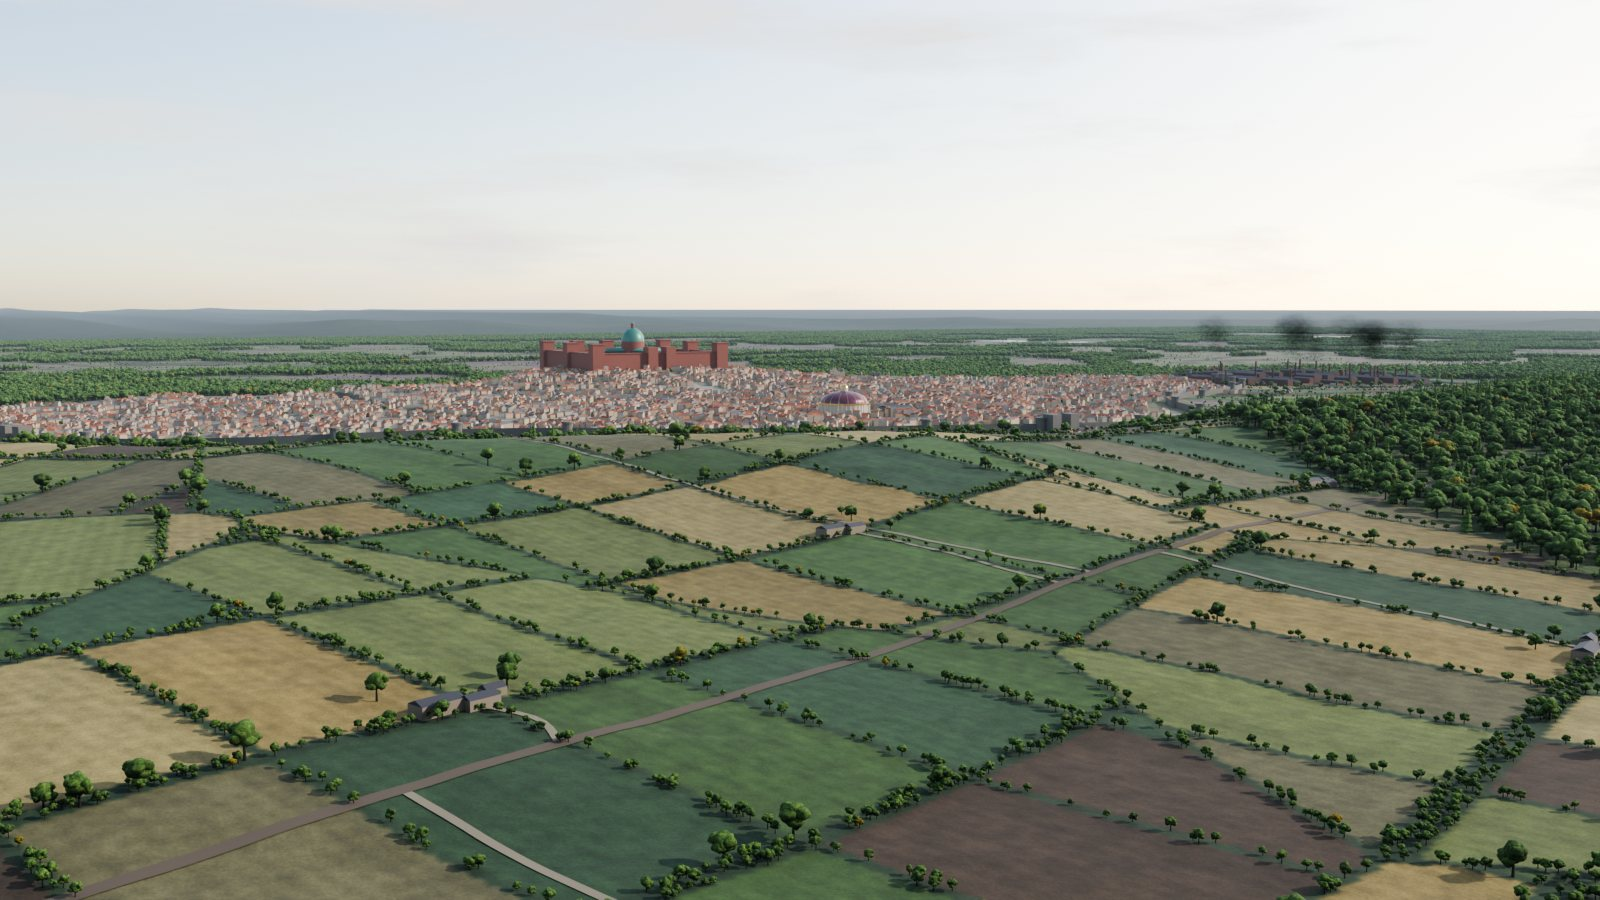
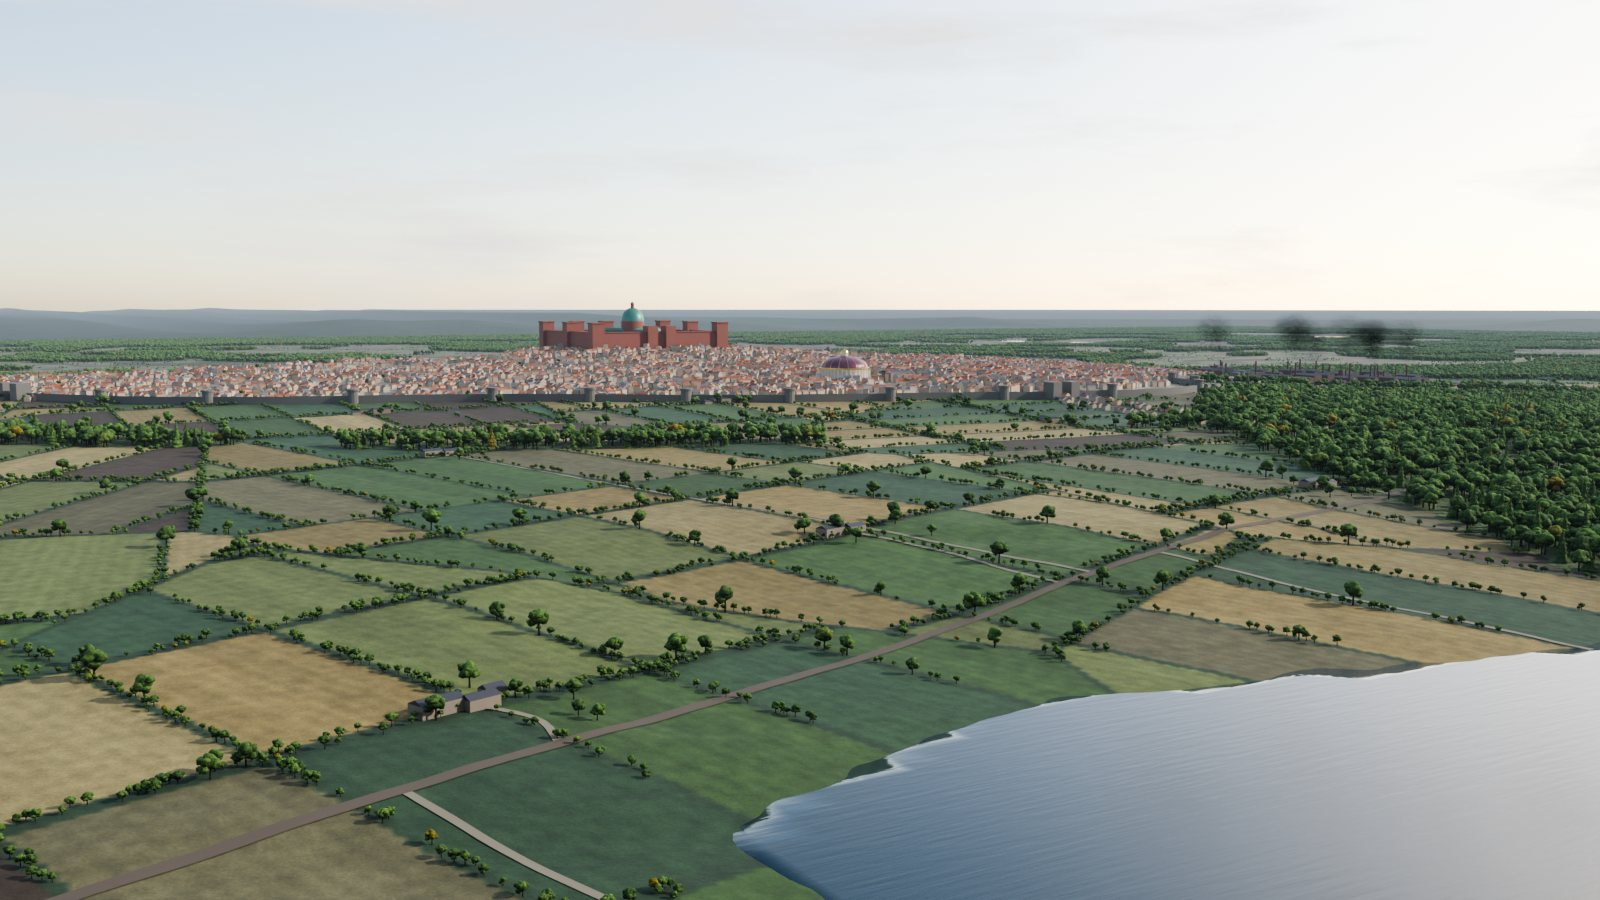
New Daggerford stands on its hill
The city sat in a bowl levelled into the hilltop, with the hill's flanks left
standing round the walls. Now the streets climb to the Keep on its prow and the
land falls away outside the walls. The two boat cuts went with the bowl; the
millrace stays. Under the Keep the north rim stands about four hundred feet over
the south. The city's pictures, the banner and both maps are redrawn, and
Kossenberg and the grove show the new lakes.

Claude-Session: https://claude.ai/code/session_01CacC3kcDPTqHS8f3YVmo4r

diff --git a/src/content/wiki/thunder-bluff.md b/src/content/wiki/thunder-bluff.md
@@ -91,7 +91,7 @@ South of the lake lies the Thunder Bluff shelf — a broad bench of ancient, har
 
 The Trade Way comes up the north bank of the Rauvin from the south-east, keeping to the river until the shelf opens out, and crosses it to the north-west. It is the shelf's one great road: broad and well metalled, with worn shoulders and old trees along it outside the walls, hamlets at its halts, and New Daggerford as its main street.
 
-The lake's river leaves by its old course and runs down the west side of the city, held to its line by stone banks and low weirs. The land to the west lies lower than the water; without the barony's works, the river would leave. Two cuts bleed water off it through the city for boats and for high water, and a millrace drives the wheels of the [[rockseeker-manufactory|Rockseeker Manufactory]].
+The lake's river leaves by its old course and runs down the west side of the city, held to its line by stone banks and low weirs. The land to the west lies lower than the water; without the barony's works, the river would leave. A millrace off it drives the wheels of the [[rockseeker-manufactory|Rockseeker Manufactory]].
 
 <div class="plates">
 <figure>
@@ -135,7 +135,7 @@ The shelf ends at the gorge, and New Daggerford — slowly coming to be called [
 
 ### Thunder Bluff and the Keep
 
-Where the city meets the gorge, a prow of rock stands out over the river with the drop on three sides. This is Thunder Bluff itself. The [[keep-of-thunder-bluff|Keep of Thunder Bluff]] stands on it, its seamless red walls rising straight from the edge, with the copper dome of the [[temple-of-helm|Temple of Helm]] inside them and a thousand feet of air beneath.
+Where the city's hill meets the gorge, a prow of rock stands out over the river with the drop on three sides. This is Thunder Bluff itself. The [[keep-of-thunder-bluff|Keep of Thunder Bluff]] stands on it, its seamless red walls rising straight from the edge, with the copper dome of the [[temple-of-helm|Temple of Helm]] inside them and a thousand feet of air beneath.
 
 <figure class="plate">
 <img src="/images/barony/hold.jpg" alt="The Keep of Thunder Bluff seen across the gorge: square red walls and towers with a green copper dome inside, on a prow of dark rock that drops sheer to the river." width="1600" height="900" loading="lazy" />
@@ -146,7 +146,7 @@ Where the city meets the gorge, a prow of rock stands out over the river with th
 
 East of the city the Rauvin is a broad, quiet river, lying barely a hundred feet below the fields. Then it reaches a line of hard rock, the Doorstep, and to anyone on the water it simply stops, with spray rising from beyond the edge. From there the [[thunder-rapids|Thunder Rapids]] fall some nine hundred feet in under five miles, through a twisting slot in the shelf's ancient rock. The slot is narrow, and its floor is choked with blocks the size of houses, shed from the walls faster than even this river can clear them. The roar is said to be audible for miles, and gives the entire region its name.
 
-The river follows a great fault. The shelf is the side that rose and the land to the south is the side that fell, so the gorge's south rim stands well below the north, by as much as two hundred and fifty feet under the Keep. West of the city the lake's river joins it the hard way, going off the shelf's edge at [[thunder-rapids|Hammerfall]]: nearly a thousand feet, onto a pool called the Anvil. Below that the doubled Rauvin runs on westward toward the broader continent. South of it, the land falls away to the vast, low-lying [[the-evermoors|Evermoors]] — a seemingly endless expanse of dark swamps, marshes and wetlands, with slow-moving black water and a brooding, primordial air.
+The river follows a great fault. The shelf is the side that rose and the land to the south is the side that fell, so the gorge's south rim stands well below the north, by as much as four hundred feet under the Keep, where the city's hill comes to the edge. West of the city the lake's river joins it the hard way, going off the shelf's edge at [[thunder-rapids|Hammerfall]]: nearly a thousand feet, onto a pool called the Anvil. Below that the doubled Rauvin runs on westward toward the broader continent. South of it, the land falls away to the vast, low-lying [[the-evermoors|Evermoors]] — a seemingly endless expanse of dark swamps, marshes and wetlands, with slow-moving black water and a brooding, primordial air.
 
 <figure class="plate">
 <img src="/images/barony/hammerfall.jpg" alt="Hammerfall: a banked river running to the edge of the gorge and pouring down a dark wall into a boulder-strewn pool, with the chimneys of the Rockseeker Manufactory on the rim beside it." width="1600" height="900" loading="lazy" />

diff --git a/src/content/wiki/selunia.md b/src/content/wiki/selunia.md
@@ -12,7 +12,7 @@ Selunia is the city at the heart of the Barony of [[thunder-bluff|Thunder Bluff]
 
 ## The City
 
-New Daggerford stands where the shelf ends at the gorge, between [[lake-seluna|Lake Selûna]] and the [[thunder-rapids|Thunder Rapids]]. It was never planned. It grew along its old roads, and its lanes run wherever the blocks between them left room, tight and tall near the middle and loose and gardened near the walls. The Trade Way runs straight through it as its main street. The wall follows the landward side only, because the gorge needs no help, and suburbs straggle out along the roads beyond each gate. The cobbled road to the [[fane-of-selune|Fane]] leaves by the north gate, and the road along the shelf runs on north-east to [[kossenberg|Kossenberg]].
+New Daggerford stands on a hill where the shelf ends at the gorge, between [[lake-seluna|Lake Selûna]] and the [[thunder-rapids|Thunder Rapids]]. The streets climb from the gates to the Keep, which crowns the hill on its prow over the gorge, and the west side of town leans down toward the lake's river. From the walls the land falls away on every side. It was never planned. It grew along its old roads, and its lanes run wherever the blocks between them left room, tight and tall near the middle and loose and gardened near the walls. The Trade Way runs straight through it as its main street. The wall follows the landward side only, because the gorge needs no help, and suburbs straggle out along the roads beyond each gate. The cobbled road to the [[fane-of-selune|Fane]] leaves by the north gate, and the road along the shelf runs on north-east to [[kossenberg|Kossenberg]].
 
 - **[[keep-of-thunder-bluff|The Keep of Thunder Bluff]]** stands at the city's heart, on a prow of rock over the gorge, with the [[temple-of-helm|Temple of Helm]] inside its walls.
 - **The Crossroads**, where the Trade Way meets the street to the Keep, is the middle of town. Over the Moon stands there, a three-storey manor of brick and timber that is the tavern, the inn and the town hall. **[[the-establishment|The Establishment]]** and the **[[jmjm-theater|JMJM Theater]]** face each other across the street.
@@ -21,7 +21,7 @@ New Daggerford stands where the shelf ends at the gorge, between [[lake-seluna|L
 
 ## The River Works
 
-The lake's river runs down the city's west side between stone banks, stepped down by low weirs and held to its line, because the land beyond it lies lower than the water. Two cuts carry boats through the city and bleed off high water over the rim to either side of the Keep. The river goes over the edge at [[thunder-rapids|Hammerfall]], from a lip the barony armoured to stop the falls eating their way back toward the streets. The Trade Way crosses it at the Upper Bridge.
+The lake's river runs down the city's west side between stone banks, stepped down by low weirs and held to its line, because the land beyond it lies lower than the water. The river goes over the edge at [[thunder-rapids|Hammerfall]], from a lip the barony armoured to stop the falls eating their way back toward the streets. The Trade Way crosses it at the Upper Bridge.
 
 ## Landmarks
 
